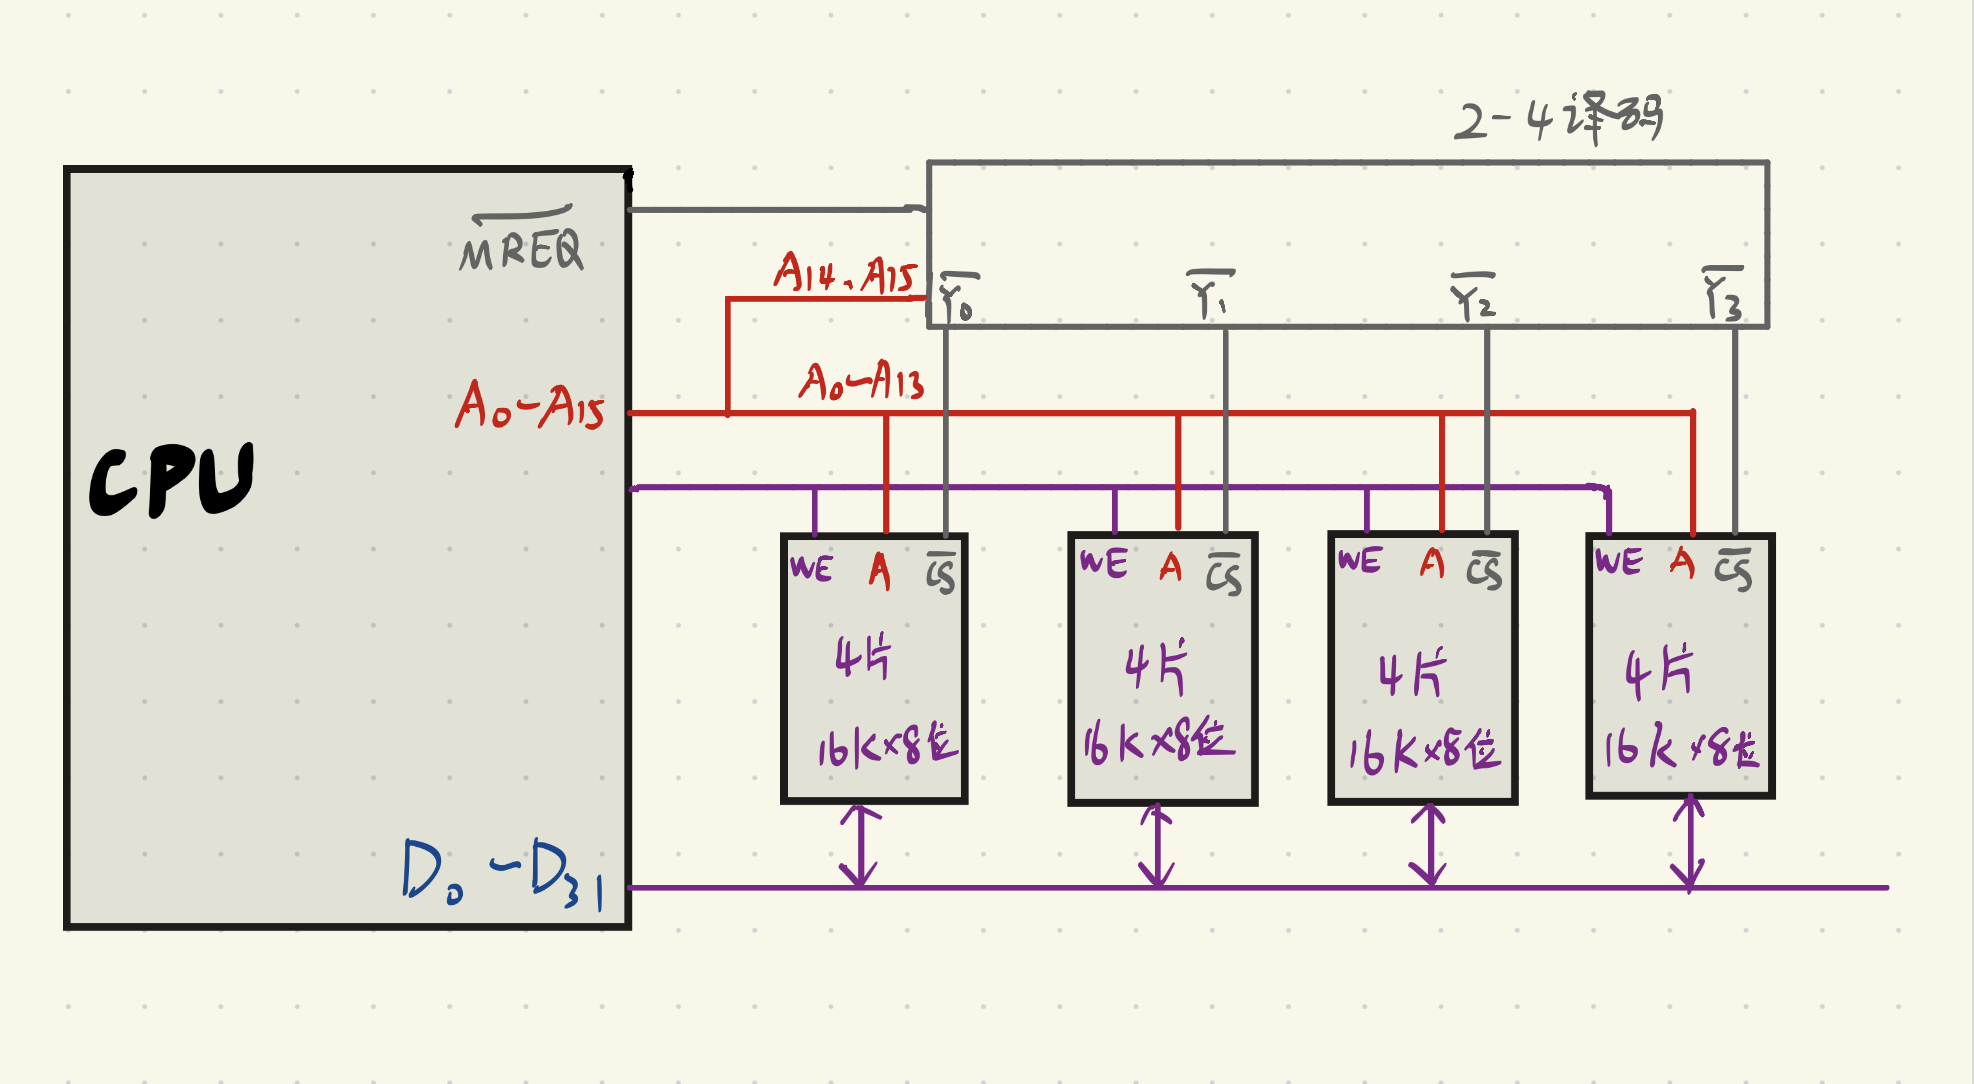
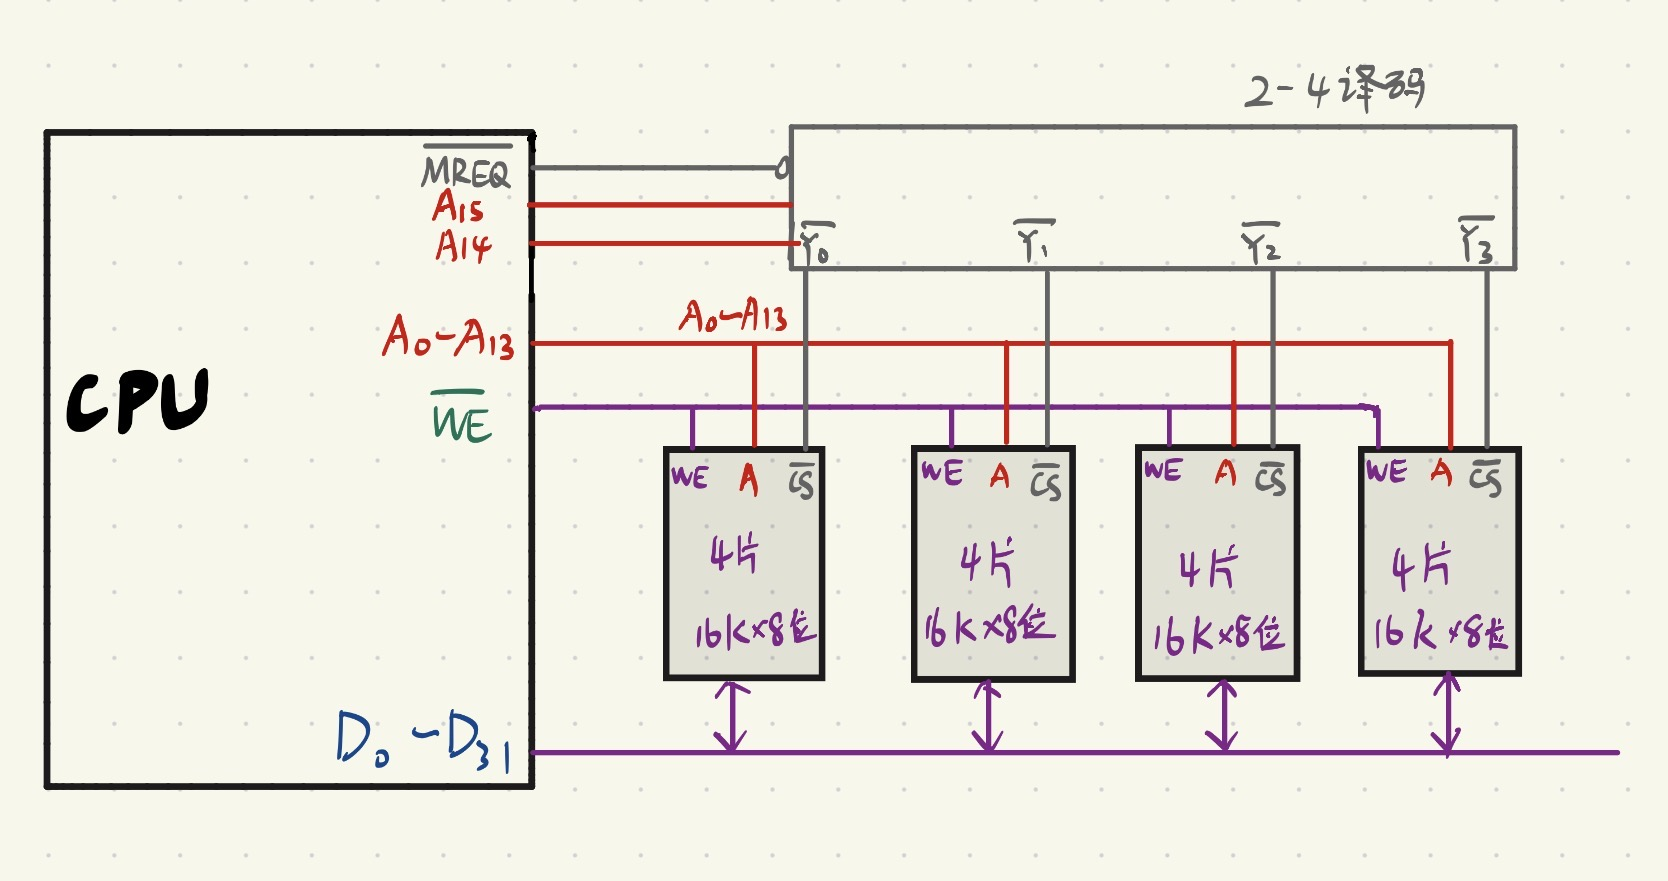
auto update 2026-05-27 21:49:11

Changed region(s): [[0.0, 0.0613, 0.9664, 0.9194], [0.9976, 0.0, 1.0, 1.0]]

diff --git a/docs/计算机组成原理/第4章：指令系统.md b/docs/计算机组成原理/第4章：指令系统.md
@@ -420,6 +420,71 @@ MIPS是一种经典的RISC架构，其指令格式规整统一。
 
 ## 4.7 例题
 
+### 作业p147 - 6
+
+![](./resources/p147_6.png)
+
+
+题目中 $I$ 表示是否间接寻址（$I=0$ 直接，$I=1$ 间接），$X$ 表示寻址模式。我们要根据**有效地址 $E$** 的计算公式，反推其寻址方式的名称。
+
+##### 🛠 思路拆解与核心概念
+
+##### ① $E = D$
+
+* **特点**：有效地址就等于指令中的形式地址 $D$，不需要经过任何寄存器，也不需要查内存。
+* **结论**：这是最基础的 **直接寻址**。
+
+##### ② $E = (PC) + D$
+
+* **特点**：以程序计数器 $PC$ 的当前值作为基准，加上偏移量 $D$。这种寻址方式常用于跳转指令，方便程序进行局部迁移。
+* **结论**：由于是相对于 $PC$ 的位置，称为 **相对寻址**。
+
+##### ③ $E = (R) + D$
+
+* **特点**：题目明确说了 $R$ 为**变址寄存器**。变址寻址的特点是寄存器的内容（$R$）由用户或程序随时改变，而形式地址 $D$ 作为固定的首地址。
+* **结论**：**变址寻址**。
+
+##### ④ $E = (R_1) + D$
+
+* **特点**：题目明确说了 $R_1$ 为**基址寄存器**。基址寻址的特点是基址寄存器的内容（$R_1$）由操作系统或硬件固化（通常存放程序在内存中的起点），而形式地址 $D$ 作为可变的偏移量。
+* **结论**：**基址寻址**。
+
+##### ⑤ $E = (D)$
+
+* **特点**：此时 $I=1$。有效地址等于形式地址 $D$ 指向的内存单元**里存放的内容**。也就是要先去内存查一次地址，才能拿到真正的有效地址。
+* **结论**：**间接寻址**（或称 **一次间接寻址**）。
+
+##### ⑥ $E = ((R_1) + D)$ 且 $D = 0$
+
+* **特点**：将这两项结合看：
+* 括号里面 $(R_1) + D$ 本身是**基址寻址**的算式。
+* 最外层又加了一个括号 $( \dots )$，说明在算出基址物理地址后，还要去该内存单元**间接**取一次实际的有效地址。
+* 题目补充条件 $D=0$，说明有效地址简化为了 $((R_1))$，即通过基址寄存器里的内容进行间接访问。
+
+
+* **结论**：**基址间接寻址**（或称 **间接基址寻址**）。
+
+
+##### 💡 寻址方式对齐答案与解析：
+
+| 序号 | 寻址方式名称 | $I$ | $X$ | 有效地址 $E$ | 核心大白话物理意义 |
+| --- | --- | --- | --- | --- | --- |
+| **①** | **直接寻址** | 0 | 00 | $E = D$ | 形式地址就是最终要找的物理内存地址。 |
+| **②** | **相对寻址** | 0 | 01 | $E = (PC) + D$ | 以当前程序执行位置 $PC$ 为基准进行偏移。 |
+| **③** | **变址寻址** | 0 | 10 | $E = (R) + D$ | 常用于循环和数组，通过变址寄存器 $R$ 自动累加。 |
+| **④** | **基址寻址** | 0 | 11 | $E = (R_1) + D$ | 用于多道程序在内存中浮动分配，基址由系统锁定。 |
+| **⑤** | **间接寻址** | 1 | 00 | $E = (D)$ | 地址嵌套，形式地址 $D$ 存放的是“存放有效地址的地址”。 |
+| **⑥** | **基址间接寻址**<br><br>(或间接基址寻址) | 1 | 11 | $E = ((R_1) + D)$, $D=0$ | 先进行基址加法，再对得到的内存单元进行间接寻址。 |
+
+##### 📌 考研答题避坑口诀
+
+1. 看到 **$(PC)$** $\rightarrow$ 无脑判定为 **相对寻址**。
+2. 看到 **变址/基址寄存器** $\rightarrow$ 对应 **变址/基址寻址**。
+3. 最外层多套了一个 **`()`** $\rightarrow$ 代表多了一次 **间接寻址** 的动作。
+
+---
+
+
 ### 例题1：寻址方式识别
 
 **题目**：指出下列各指令的寻址方式

diff --git a/docs/计算机组成原理/第3章：存储系统.md b/docs/计算机组成原理/第3章：存储系统.md
@@ -79,6 +79,8 @@ ROM（只读存储器）是另一大类半导体存储器，特点是**非易失
 
 ![b1](./resources/笔记1.jpg)
 
+![](./resources/全相联映射.jpg)
+
 ![b2](./resources/笔记2.jpg)
 
 *   **替换算法**：当Cache满了，新数据该替换谁？常考 **LRU（近期最少使用法）** 和 FIFO（先进先出法）。考试常要求画图或列表计算命中率。
@@ -244,7 +246,9 @@ $$\text{寻址范围} = \frac{4 \text{ MB}}{2 \text{ B}} = \frac{4 \times 2^{20}
 * **片选控制线 ($\overline{CS}$ 或 $\overline{RAS}/\overline{CAS}$)**：系统高位地址 $A_{15}, A_{14}$ 接到 2:4 译码器的输入端。译码器的 4 个输出端 $\overline{Y_0} \sim \overline{Y_3}$ 分别横向连接到第 1 行至第 4 行的芯片片选端。
 
 
-![t4](./resources/p122_3.png)
+![](./resources/p122_3.png)
+
+**用 $\overline{MREQ}$ 作为译码器芯片的输出许可证信号，译码器的输出作为存储器芯片的选择信号 ；用 $\overline{WE} $ 作为读写控制信号**
 
 
 !!! note "补充"
